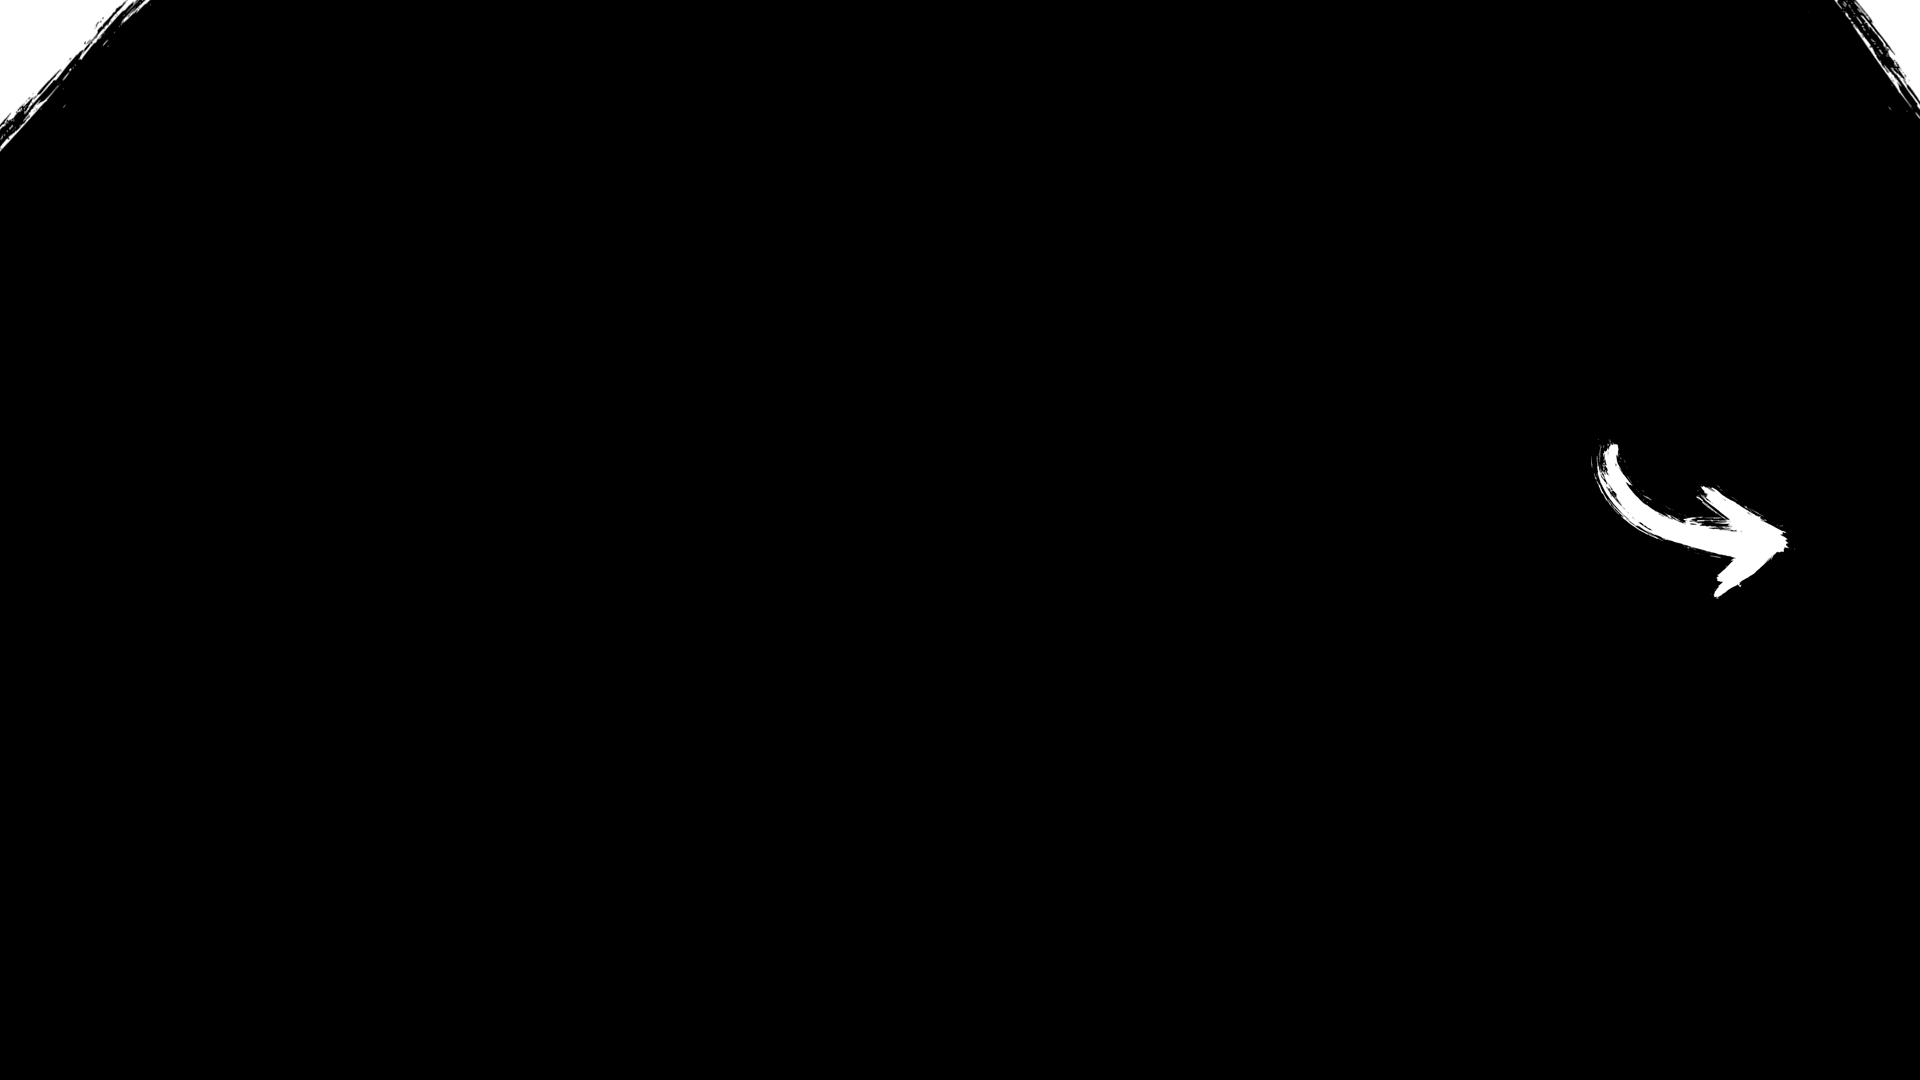
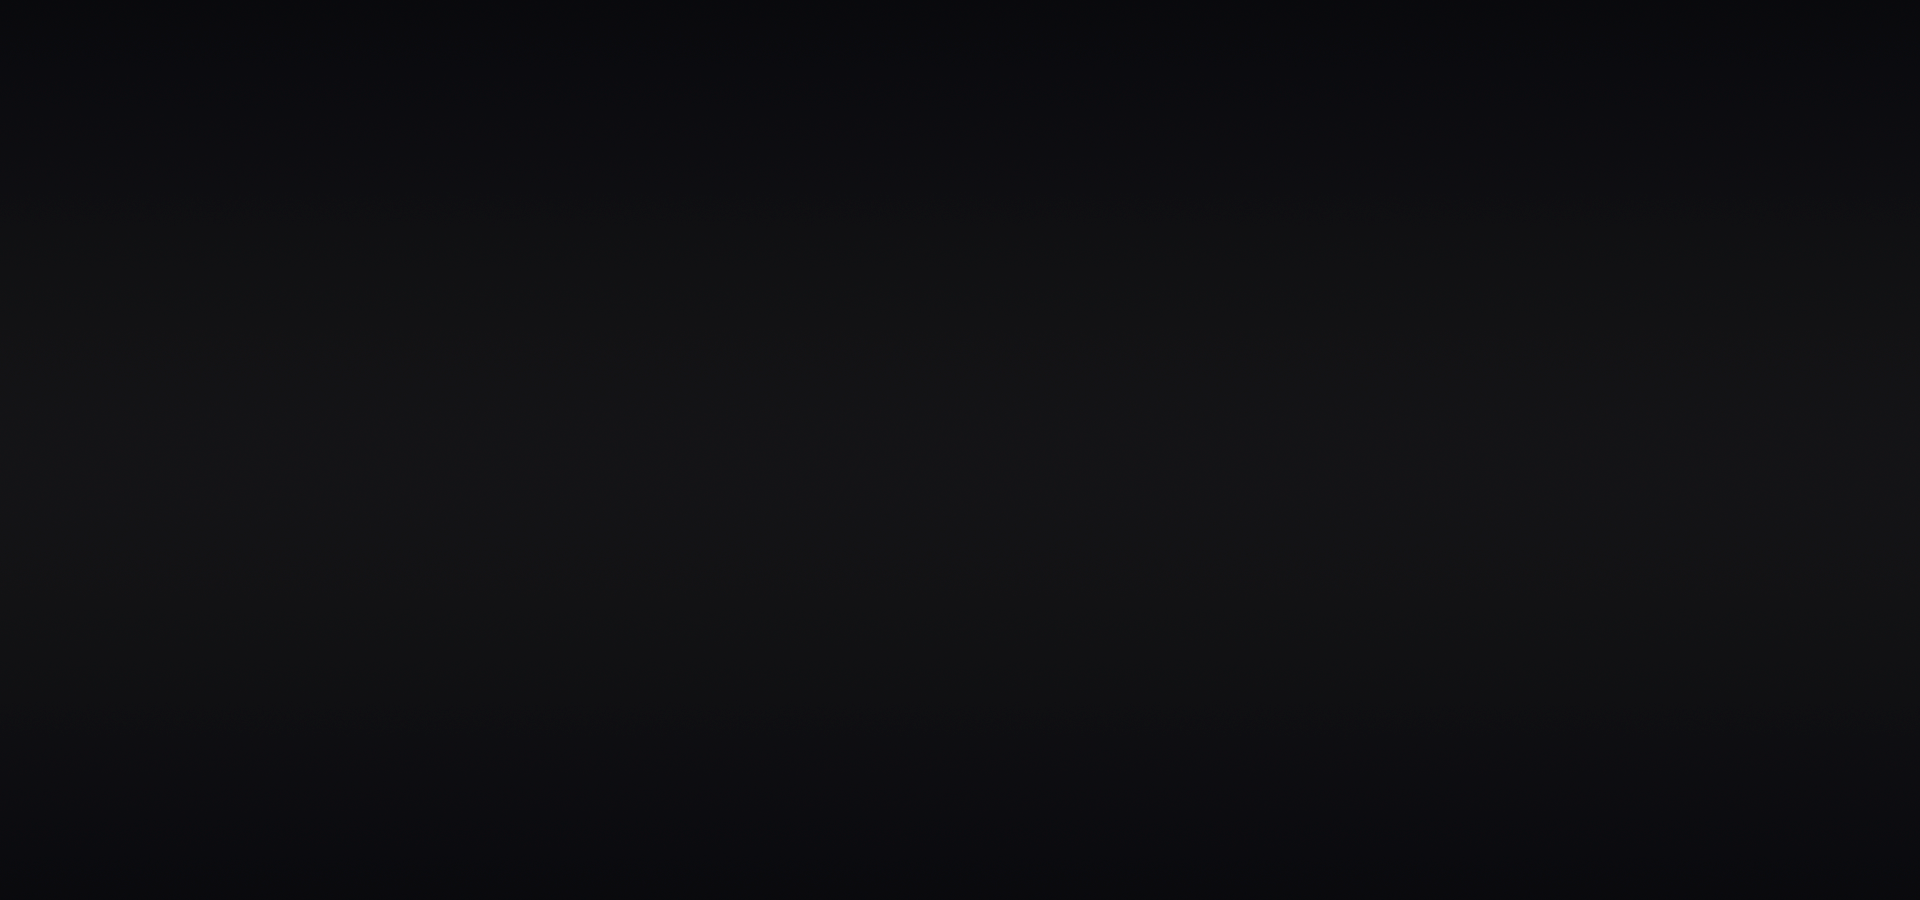
[HTML + CSS + JS] Responsive indicator. Better background.

Changed region(s): [[0.8125, 0.4044, 0.9375, 0.56], [0.0, 0.0, 0.0938, 0.1244], [0.9688, 0.0, 1.0, 0.0933]]

diff --git a/tde-project/js/main.js b/tde-project/js/main.js
@@ -3,6 +3,8 @@ const imgBox = document.querySelector(".imgBox");
 const contentBox = document.querySelector(".contentBox");
 const boxes = contentBox.getElementsByTagName("div");
 const slides = imgBox.getElementsByTagName("img");
+const subContents = document.querySelector(".subContents");
+const subContent = subContents.getElementsByClassName("subContent");
 
 function completeLoad() {
     const loader = document.getElementById("loader-1");
@@ -13,9 +15,9 @@ function completeLoad() {
     loading[0].classList.add("active");
     setTimeout(() => {
         screen[0].classList.remove("active");
-
         loading[0].classList.remove("active");
-    }, 1000);
+        subContent[0].classList.add("active");
+    }, 1500);
 }
 
 
@@ -25,9 +27,11 @@ function clearSelection() {
 
 
 function nextSlide() {
+    if (i < subContent.length) subContent[i].classList.remove("active");
     slides[i].classList.remove("active");
     boxes[i].classList.remove("active");
     i = (i + 1) % slides.length;
+    if (i < subContent.length) subContent[i].classList.add("active");
     slides[i].classList.add("active");
     boxes[i].classList.add("active");
     clearSelection();
@@ -35,9 +39,11 @@ function nextSlide() {
 }
 
 function backSlide() {
+    if (i < subContent.length) subContent[i].classList.remove("active");
     slides[i].classList.remove("active");
     boxes[i].classList.remove("active");
     i = (i - 1 + slides.length) % slides.length;
+    if (i < subContent.length) subContent[i].classList.add("active");
     slides[i].classList.add("active");
     boxes[i].classList.add("active");
     clearSelection();

diff --git a/tde-project/index.html b/tde-project/index.html
@@ -2,6 +2,8 @@
 <html lang="en">
 <head>
     <meta charset="UTF-8">
+    <meta name="description" content="">
+    <meta name="viewport" content="width=device-width, initial-scale=1.0">
     <link rel="stylesheet" href="./css/style.css">
     <script type="text/javascript" src="./js/main.js" defer></script>
     <title>TDE</title>
@@ -21,7 +23,7 @@
 
     <section class="banner">
         <div class="imgBox">
-            <img src="./images/black2.png" class="active">
+            <img src="images/black.png" class="active">
             <img src="./images/aot.png">
             <img src="./images/breakout.png">
             <img src="./images/site.png">
@@ -59,6 +61,10 @@
                 <a class="red black-bg textBg github light hover-light" href="https://vmsou.github.io/js-project/">Visitar Site</a>
             </div>
         </div>
+        <div class="subContents">
+            <div class="subContent">
+                <img src="./images/seta.png" class="indicator">
+            </div>
         </div>
         <ul class="controls">
             <li class="arrow right" onclick="nextSlide()"></li>

diff --git a/tde-project/css/style.css b/tde-project/css/style.css
@@ -22,7 +22,7 @@ body {
 }
 
 .white {
-    --boxColor: rgba(255, 255, 255, 0.8);
+    --boxColor: rgba(255, 255, 255, 0.6);
     --textColor: #fff;
 }
 
@@ -193,6 +193,25 @@ header ul li a {
     opacity: 1;
 }
 
+.subContent {
+    opacity: 0;
+}
+
+.subContent.active {
+    opacity: 1;
+}
+
+.indicator {
+    position: fixed;
+    top: 42%;
+    transform: translateY(-42%);
+    right: 10vh;
+    width: 30vh;
+}
+
+.indicator.active{
+}
+
 .controls {
     position: absolute;
     top: 50%;
@@ -241,6 +260,7 @@ header ul li a {
     position: absolute;
     bottom: 0;
     max-width: 700px;
+    transition: 0.5s;
 }
 
 .contentBox div {
